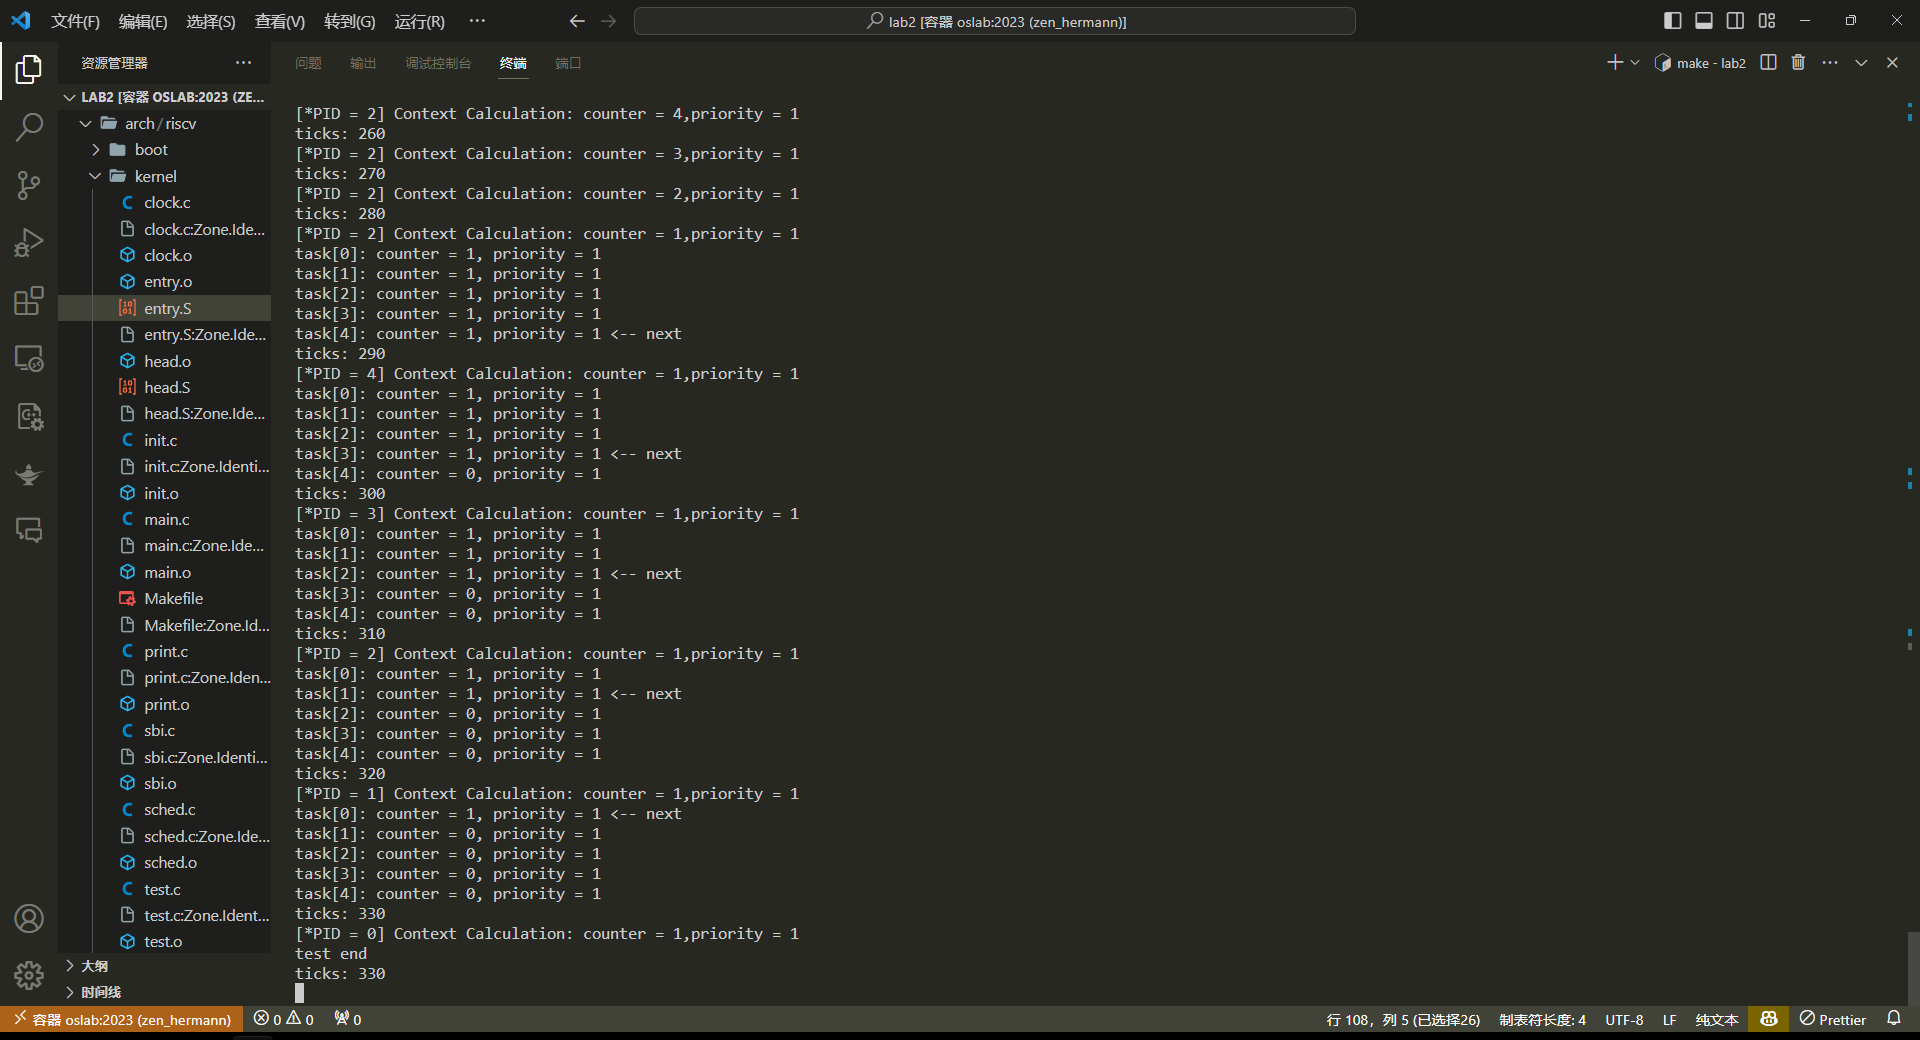
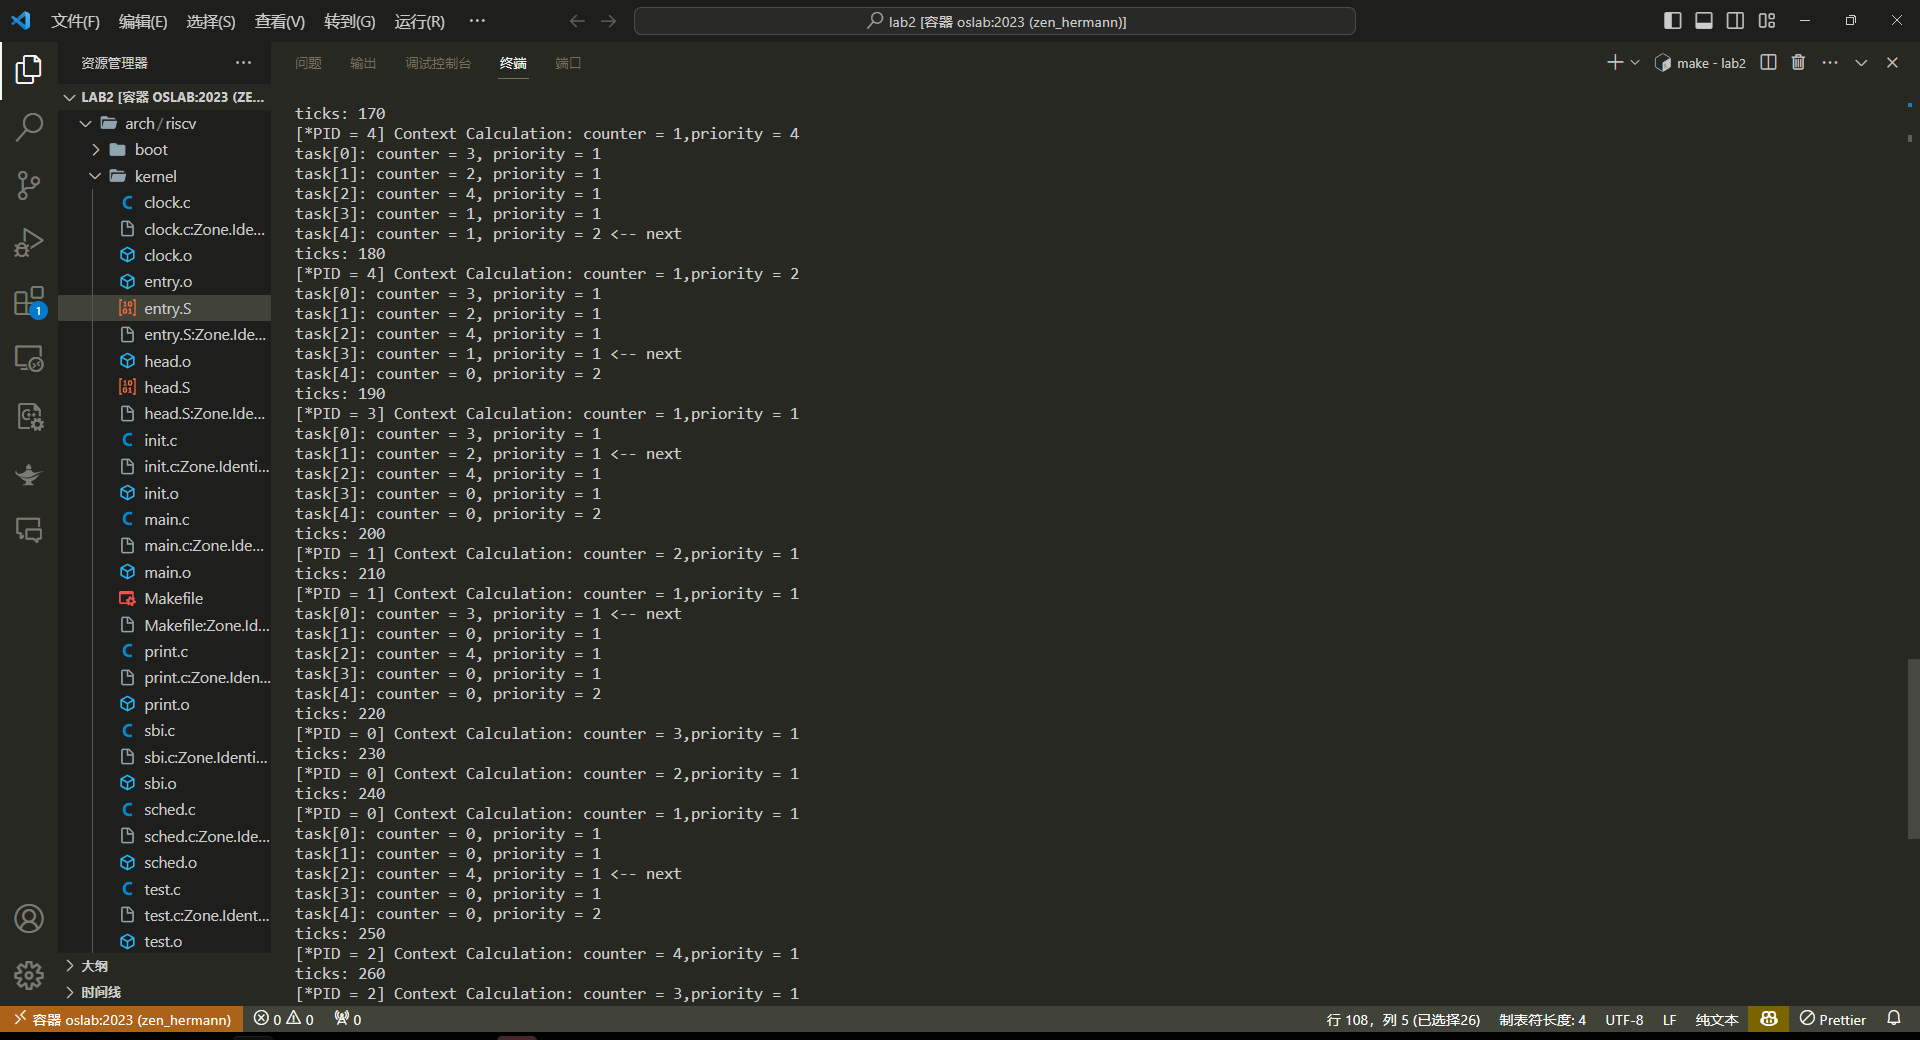
fix bug in lab2

diff --git a/Lab2/lab2/arch/riscv/kernel/sched.c b/Lab2/lab2/arch/riscv/kernel/sched.c
@@ -164,14 +164,14 @@ void schedule(void)
   unsigned char next;
   // TODO
   unsigned int min_priority = 0x7fffffff;
-  unsigned char flag = 0; // if all tasks are done, 1 represents all done
+  unsigned char flag = 1; // if all tasks are done, 1 represents all done
   for (int i = NR_TASKS - 1; i >= 0; i--)
   {
     if (task[i] == 0) {
       continue;
     }
     if (task[i]->counter > 0 && task[i]->priority <= min_priority && task[i]->state == TASK_RUNNING) { // higher or equal priority
-      flag = 1;
+      flag = 0;
       if (task[i]->priority == min_priority)
       {                                               // equal priority
         if (task[i]->counter < task[next]->counter) { // less time left, update next

diff --git a/LabReport/Lab 2_ RV64 进程调度模拟.md b/LabReport/Lab 2_ RV64 进程调度模拟.md
@@ -650,7 +650,7 @@ __init_sepc:
 
 请在此附上你的代码运行结果截图。
 ##### 短作业优先非抢占式算法
-答：___________________________________________![[lab2p1.png]]
+答：___________________________________________![[lab2p0.png]]54213:![[lab2p1.png]]54321:![[lab2p3.png]]
 
 
 ##### 优先级抢占式算法
@@ -663,9 +663,9 @@ __init_sepc:
 
 | 测试目标 | 测试用例{counter,priority} | 预期结果 | 实际结果 |
 | --- | --- | --- | --- |
-| 随机1 | {1, 4}, {4, 5}, {3, 2}, {4, 1}, {5, 4} | 1, 3, 4, 2, 5 |  |
-| 随机2 | {3, 1}, {2, 1}, {4, 1}, {1, 1}, {1, 2} |  |  |
-| 相同剩余运行时间，以遍历顺序执行 | {1, 1}, {1, 1}, {1, 1}, {1, 1}, {1, 1} |  |  |
+| 随机1 | {1, 4}, {4, 5}, {3, 2}, {4, 1}, {5, 4} | 1, 3, 4, 2, 5 | 1,3,4,2,5 |
+| 随机2 | {3, 1}, {2, 1}, {4, 1}, {1, 1}, {1, 2} | 5, 4, 2, 1, 3 | 5,4,2,1,3 |
+| 相同剩余运行时间，以遍历顺序执行 | {1, 1}, {1, 1}, {1, 1}, {1, 1}, {1, 1} | 5, 4, 3, 2, 1 | 5,4,3,2,1 |
 |  |  |  |  |
 
 
@@ -676,9 +676,9 @@ __init_sepc:
 
 | 测试情况 | 测试用例{counter,priority} | 预期结果 | 实际结果 |
 | --- | --- | --- | --- |
-| 随机1 | {1, 4}, {4, 5}, {3, 2}, {4, 1}, {5, 4} |  |  |
-| 随机2 | {3, 1}, {2, 1}, {4, 1}, {1, 1}, {1, 2} |  |  |
-| 相同剩余运行时间，以遍历顺序执行 | {1, 1}, {1, 1}, {1, 1}, {1, 1}, {1, 1} |  |  |
+| 随机1 | {1, 4}, {4, 5}, {3, 2}, {4, 1}, {5, 4} | 4, 3, 1, 5, 2 |  |
+| 随机2 | {3, 1}, {2, 1}, {4, 1}, {1, 1}, {1, 2} | 4, 2, 1, 3, 5 |  |
+| 相同剩余运行时间，以遍历顺序执行 | {1, 1}, {1, 1}, {1, 1}, {1, 1}, {1, 1} | 5, 4, 3, 2, 1 |  |
 |  |  |  |  |
 
 
